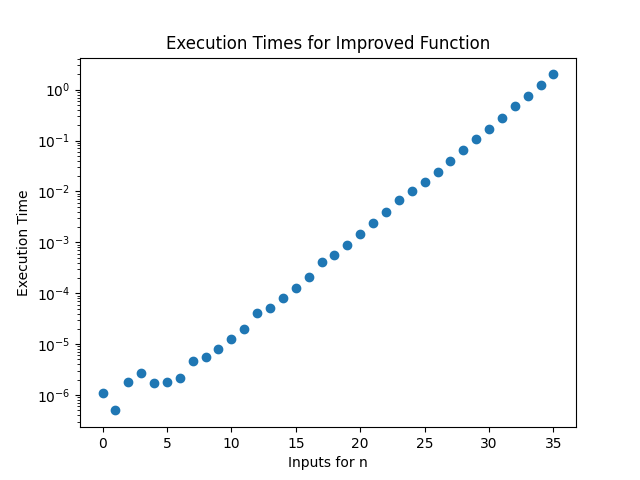
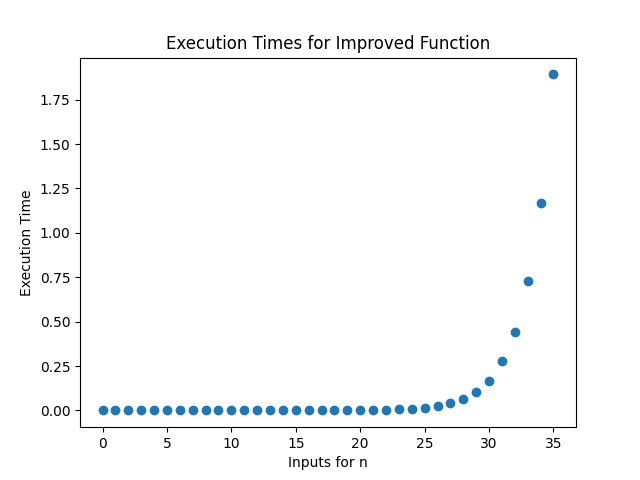
removed log scale in ex5

diff --git a/ex1.py b/ex1.py
@@ -48,6 +48,7 @@ plt.scatter(input_values, original_times)
 plt.title('Execution Times for Original Function')
 plt.xlabel('Inputs for n')
 plt.ylabel('Execution Time')
+
 plt.savefig('ex1.6.1.png')
 plt.close()
 
@@ -78,7 +79,7 @@ plt.scatter(input_values, improved_times)
 plt.title('Execution Times for Improved Function')
 plt.xlabel('Inputs for n')
 plt.ylabel('Execution Time')
-plt.yscale('log')
+#plt.yscale('log')
 plt.savefig('ex1.6.2.png')
 plt.close()
 

diff --git a/ex5.py b/ex5.py
@@ -104,7 +104,6 @@ def main():
     popt_bin, _ = curve_fit(fit_func, list_sizes, average_bin_times, p0=[1,1])
     plt.scatter(list_sizes, average_bin_times, label='Binary Search', color='green')
     plt.plot(list_sizes, fit_func(list_sizes, *popt_bin), '--', color='black', label='Binary Fit')
-    plt.yscale('log')
     plt.xlabel('Number of Elements')
     plt.ylabel('Average Time for Search (s)')
     plt.legend()
